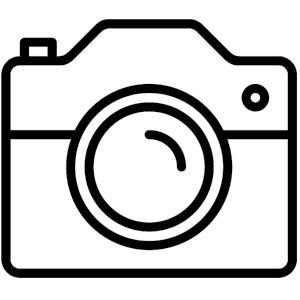
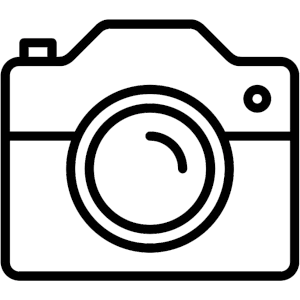
Cajas hechas, retocado general a la pagina principal

Changed region(s): [[0.0, 0.06, 1.0, 0.96], [0.48, 0.42, 0.6, 0.51], [0.57, 0.51, 0.63, 0.6]]

diff --git a/Landing/index.html b/Landing/index.html
@@ -206,22 +206,34 @@
             </div>
             <div class="details-container">
                 <div class="details-box">
-                    <img src="assets/home/boxes/eye.webp" alt="Ojo" class = "display-box">
+                    <img src="assets/home/boxes/controller.webp" alt="Ojo">
+                    <p class = "details-text">Play a big catalog of videogames and log them with a few clicks</p>
+                    <p class = "text-450">Play & Log</p>
                 </div>
                 <div class="details-box">
-                    <img src="assets/home/boxes/lupa.webp" alt="Ojo" class = "display-box">
+                    <img src="assets/home/boxes/lupa.webp" alt="Lupa">
+                    <p class = "details-text">Search for new games to play and log</p>
+                    <p class = "text-450">Search</p>
                 </div>
                 <div class="details-box">
-                    <img src="assets/home/boxes/reviewer.webp" alt="Ojo" class = "display-box">
+                    <img src="assets/home/boxes/reviewer.webp" alt="Reviewer">
+                    <p class = "details-text">Give your own scores and reviews to your catalog</p>
+                    <p class = "text-450">Review</p>
                 </div>
                 <div class="details-box">
-                    <img src="assets/home/boxes/camera.webp" alt="Ojo" class = "display-box">
+                    <img src="assets/home/boxes/list.webp" alt="Lista">
+                    <p class = "details-text">Create, visit, and share lists of your preferences</p>
+                    <p class = "text-450">Create, visit, share lists</p>
                 </div>
                 <div class="details-box">
-                    
+                    <img src="assets/home/boxes/camera.webp" alt="Camara">
+                    <p class = "details-text">Share pictures of your playthroughs with a vast community</p>
+                    <p class = "text-450">Share pictures</p>
                 </div>
                 <div class="details-box">
-                    
+                    <img src="assets/home/boxes/share.webp" alt="Compartir">
+                    <p class = "details-text">Share your favourite games to other people across platforms</p>
+                    <p class = "text-450">Share games</p>
                 </div>
             </div>
         </div>
@@ -277,6 +289,116 @@
                     <span class="hidden-name">
                         Devil May Cry 5
                         <span class="hidden-year">(2019)</span>
+                    </span>
+                </div>
+            </div>
+        </div>
+        <div class="main-box-container">
+            <div class="gradient-lined-text">
+                <p>Recently Released</p>
+            </div>
+            <div class="box-container-games">
+                <div class="game-box">
+                    <img 
+                        src="https://images.igdb.com/igdb/image/upload/t_cover_big/cocrjd.webp" alt="portada1">
+                    <span class="hidden-name">
+                        The Witcher 3: Wild Hunt Remastered
+                        <span class="hidden-year">(2026)</span>
+                    </span>
+                </div>
+                <div class="game-box">
+                    <img 
+                        src="https://images.igdb.com/igdb/image/upload/t_cover_big/coc75p.webp" alt="portada1">
+                    <span class="hidden-name">
+                        Minecraft Dungeions II
+                        <span class="hidden-year">(2026)</span>
+                    </span>
+                </div>
+                <div class="game-box">
+                    <img 
+                        src="https://images.igdb.com/igdb/image/upload/t_cover_big/coc64f.webp" alt="portada1">
+                    <span class="hidden-name">
+                        Control Resonant
+                        <span class="hidden-year">(2026)</span>
+                    </span>
+                </div>
+                <div class="game-box">
+                    <img 
+                        src="https://images.igdb.com/igdb/image/upload/t_cover_big/coc5sw.webp" alt="portada1">
+                    <span class="hidden-name">
+                        Silent Hill: Townfall
+                        <span class="hidden-year">(2026)</span>
+                    </span>
+                </div>
+                <div class="game-box">
+                    <img 
+                        src="https://images.igdb.com/igdb/image/upload/t_cover_big/coc7ma.webp" alt="portada1">
+                    <span class="hidden-name">
+                        Fire Emblem: Fortune's Weave
+                        <span class="hidden-year">(2026)</span>
+                    </span>
+                </div>
+                <div class="game-box">
+                    <img 
+                        src="https://images.igdb.com/igdb/image/upload/t_cover_big/cob7ym.webp" alt="portada1">
+                    <span class="hidden-name">
+                        The Blood of Dawnwalker
+                        <span class="hidden-year">(2026)</span>
+                    </span>
+                </div>
+            </div>
+        </div>
+        <div class="main-box-container">
+            <div class="gradient-lined-text">
+                <p>This week's selection</p>
+            </div>
+            <div class="box-container-games">
+                <div class="game-box">
+                    <img 
+                        src="https://images.igdb.com/igdb/image/upload/t_cover_big/co2dto.webp" alt="portada1">
+                    <span class="hidden-name">
+                        Halo Infinite
+                        <span class="hidden-year">(2021)</span>
+                    </span>
+                </div>
+                <div class="game-box">
+                    <img 
+                        src="https://images.igdb.com/igdb/image/upload/t_cover_big/co1ozz.webp" alt="portada1">
+                    <span class="hidden-name">
+                        Shadow of the Colossus
+                        <span class="hidden-year">(2005)</span>
+                    </span>
+                </div>
+                <div class="game-box">
+                    <img 
+                        src="https://images.igdb.com/igdb/image/upload/t_cover_big/co3ddc.webp" alt="portada1">
+                    <span class="hidden-name">
+                        God of War
+                        <span class="hidden-year">(2005)</span>
+                    </span>
+                </div>
+                <div class="game-box">
+                    <img 
+                        src="https://images.igdb.com/igdb/image/upload/t_cover_big/cob9ed.webp" alt="portada1">
+                    <span class="hidden-name">
+                        Dark Souls III
+                        <span class="hidden-year">(2016)</span>
+                    </span>
+                </div>
+                <div class="game-box">
+                    <img 
+                        src="https://images.igdb.com/igdb/image/upload/t_cover_big/co1izy.webp" alt="portada1">
+                    <span class="hidden-name">
+                        Infamous: Second Son
+                        <span class="hidden-year">(2014)</span>
+                    </span>
+                </div>
+                <div class="game-box">
+                    <img 
+                        src="https://images.igdb.com/igdb/image/upload/t_cover_big/co21ro.webp" alt="portada1">
+                    <span class="hidden-name">
+                        Super Mario Galaxy
+                        <span class="hidden-year">(2007)</span>
                     </span>
                 </div>
             </div>

diff --git a/Landing/styles/home/home-boxes.css b/Landing/styles/home/home-boxes.css
@@ -21,16 +21,99 @@
     border: 1px solid #262327; 
     border-radius: 10px;
     background-color: rgb(31, 20, 31);  
-    padding: 20px;    
+    padding: 15px;    
     margin-bottom: 8px; 
     box-sizing: border-box; 
     width: 30%;
-    min-height: 100px;
+    height: 110px;
+    align-items: center;
+    z-index: 1;
+}
+
+.details-text{
+    color: white;
+    font-family: var(--font-body);
+    font-size: 15px;
+    margin-left: 16px;
+}
+
+.text-450{
+    position: absolute;
+    color: rgb(255, 255, 255);
+    font-family: var(--font-body);
+    font-size: 13px;
+    top: 50%;
+    left: 50%;
+    transform: translate(-50%, -50%);
+    width: 90%; 
+    text-align: center;
+    line-height: 1.2; 
+    box-sizing: border-box;
+    opacity: 0;
+    visibility: hidden;
+    transition: all 0.3s ease;
 }
 
 
 .details-box img{
     filter: invert(100%);
-    height: 48px;
-    width: 48px;
+    height: 50px;
+    width: 50px;
+    margin: 0px 5px 0px 5px;
+}
+
+.details-box:hover{
+    background-image: linear-gradient(70deg, rgb(88, 19, 90), rgb(55, 10, 71));
+    transition: background-image 0.5s ease; 
+}
+
+/*******************************************************
+******************** RESPONSIVE <= 900 px   ********************
+*******************************************************/
+
+@media (max-width: 900px) {
+    .details-box img{
+        height: 35px;
+        width: 35px;
+    }
+
+    .details-text{
+        font-size: 9px;
+    }
+}
+
+/*******************************************************
+******************** RESPONSIVE <= 450 px   ********************
+*******************************************************/
+
+@media (max-width: 450px) {
+    .details-box {
+        position: relative;
+        display: flex;
+        align-items: center;
+        flex-direction: column;
+        padding: 13px;
+        height: 90px;
+    }
+
+    .details-box img{
+        height: 100%;
+        width: 62px;
+    }
+
+    .details-box:hover img{
+        filter: invert(100%) blur(4px);
+    }
+
+    .details-box:hover .text-450{
+        opacity: 1;
+        visibility: visible;
+        z-index: 2;
+        filter:none;
+    }
+
+    .details-text{
+        display: none;
+    }
+
 }

diff --git a/Landing/styles/games-grid.css b/Landing/styles/games-grid.css
@@ -38,7 +38,7 @@
     font-size: 1.5rem;
     font-weight: bold;
     text-align: center;
-    width: 100%;
+    width: 95%;
 }
 
 .hidden-year {
@@ -115,4 +115,14 @@
     gap: 20px;
     padding: 10px 0px;
     justify-content: center;
+}
+
+/***************************************************************
+**************** RESPONSIVE GAMEBOX <= 600px *******************
+****************************************************************/
+
+@media (max-width: 600px) {
+    .box-container-games {
+        grid-template-columns: repeat(6, 170px);
+    }       
 }
